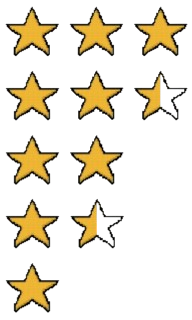
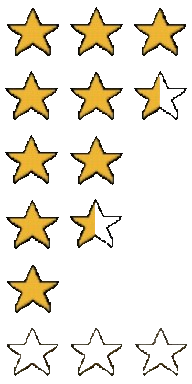
star modal fix

diff --git a/ui/game.go b/ui/game.go
@@ -58,8 +58,6 @@ const (
 
 var levelNames = []string{"Easy", "Medium", "Hard", "Extreme"}
 
-var pointsPerQ = []int{10, 20, 30, 40}
-
 // Game represents the main game state
 type Game struct {
 	gameFont    font.Face
@@ -148,16 +146,15 @@ type Game struct {
 	starShineAngle     float64
 
 	// --- Pending answer system ---
-	pendingAnswer        bool
-	pendingIsBonusQ      bool
-	pendingIsCorrect     bool
-	pendingQuestionsLeft int
-
+	pendingAnswer bool
 	// In Game struct, add:
 	// lastNavClick time.Time
 
 	// In Game struct, add:
 	compassImg *ebiten.Image
+
+	// In Game struct, add:
+	starStripImg *ebiten.Image
 }
 
 // GameState represents the current state of the game UI
@@ -1041,6 +1038,7 @@ func NewGame() *Game {
 	g.initLogo()
 	g.initShips()
 	g.initCompass()
+	g.initStarStrip() // <-- add this
 	return g
 }
 
@@ -1802,24 +1800,42 @@ func (g *Game) drawStarModal(screen *ebiten.Image) {
 	title := "Test Results"
 	drawWrappedTextWithShadow(screen, title, g.confirmFont, x+32, y+48, w-64, 28, VictoryGold)
 
-	starY := y + 110
-	starX := x + 120
-	starGap := 100
-	fullStars := int(g.starCount)
-	halfStar := g.starCount-float64(fullStars) >= 0.5
-	for i := 0; i < 3; i++ {
-		cx := starX + i*starGap
-		if i < fullStars {
-			drawStar(screen, cx, starY, 28, VictoryGold, 1.0)
-		} else if i == fullStars && halfStar {
-			drawStar(screen, cx, starY, 28, VictoryGold, 0.5)
-		} else {
-			drawStar(screen, cx, starY, 28, SmokeWhite, 1.0)
+	// --- Draw star strip ---
+	if g.starStripImg != nil {
+		// Determine frame based on subject percent (not total score)
+		percent := g.scorePercent // This is already per subject
+		frame := 5                // default: empty
+		if percent == 100 {
+			frame = 0
+		} else if percent >= 90 {
+			frame = 1
+		} else if percent >= 80 {
+			frame = 2
+		} else if percent >= 70 {
+			frame = 3
+		} else if percent >= 1 {
+			frame = 4
+		} else if percent == 0 {
+			frame = 5
 		}
+		// Star strip is 6 frames, vertical, all same width/height
+		imgW := g.starStripImg.Bounds().Dx()
+		imgH := g.starStripImg.Bounds().Dy()
+		frameH := imgH / 6
+		starX := x + w/2 - imgW/2
+		starY := y + 80
+		srcRect := image.Rect(0, frame*frameH, imgW, (frame+1)*frameH)
+		frameImg := g.starStripImg.SubImage(srcRect).(*ebiten.Image)
+		starW := 120
+		starH := 120
+		op := &ebiten.DrawImageOptions{}
+		op.GeoM.Scale(float64(starW)/float64(imgW), float64(starH)/float64(frameH))
+		op.GeoM.Translate(float64(starX), float64(starY))
+		screen.DrawImage(frameImg, op)
 	}
 
 	// Score and rank
-	scoreY := starY + 60
+	scoreY := y + 200 // move down to account for new star position
 
 	// Get total score from all subjects
 	totalScore := 0
@@ -1862,61 +1878,6 @@ func (g *Game) drawStarModal(screen *ebiten.Image) {
 	g.continueRects = []image.Rectangle{
 		image.Rect(btnX1, btnY, btnX1+btnW, btnY+btnH),
 		image.Rect(btnX2, btnY, btnX2+btnW, btnY+btnH),
-	}
-}
-
-// drawStar draws a 5-pointed star, optionally half-filled
-func drawStar(screen *ebiten.Image, cx, cy, r int, col color.Color, fillFrac float64) {
-	ensureWhiteImg()
-	c := colorToRGBA(col)
-	points := 5
-	outer := float64(r)
-	inner := outer * 0.5
-	verts := make([]ebiten.Vertex, 0, 10)
-	for i := 0; i < points*2; i++ {
-		angle := math.Pi/2 + float64(i)*math.Pi/float64(points)
-		rad := outer
-		if i%2 == 1 {
-			rad = inner
-		}
-		x := float32(cx) + float32(rad*math.Cos(angle))
-		y := float32(cy) - float32(rad*math.Sin(angle))
-		verts = append(verts, ebiten.Vertex{
-			DstX: x, DstY: y,
-			ColorR: float32(c.R) / 255, ColorG: float32(c.G) / 255, ColorB: float32(c.B) / 255, ColorA: float32(c.A) / 255,
-		})
-	}
-	indices := []uint16{0, 2, 4, 6, 8, 1, 3, 5, 7, 9}
-	if fillFrac < 1.0 {
-		mid := cx
-		for i := 0; i < len(indices)-2; i++ {
-			v1 := verts[indices[i]]
-			v2 := verts[indices[i+1]]
-			v3 := ebiten.Vertex{DstX: float32(cx), DstY: float32(cy), ColorR: v1.ColorR, ColorG: v1.ColorG, ColorB: v1.ColorB, ColorA: v1.ColorA}
-			if v1.DstX <= float32(mid) && v2.DstX <= float32(mid) {
-				vs := []ebiten.Vertex{v1, v2, v3}
-				is := []uint16{0, 1, 2}
-				screen.DrawTriangles(vs, is, whiteImg, nil)
-			} else {
-				vs := []ebiten.Vertex{v1, v2, v3}
-				for j := range vs {
-					vs[j].ColorR = float32(SmokeWhite.R) / 255
-					vs[j].ColorG = float32(SmokeWhite.G) / 255
-					vs[j].ColorB = float32(SmokeWhite.B) / 255
-					vs[j].ColorA = float32(SmokeWhite.A) / 255
-				}
-				is := []uint16{0, 1, 2}
-				screen.DrawTriangles(vs, is, whiteImg, nil)
-			}
-		}
-	} else {
-		for i := 0; i < len(indices)-2; i++ {
-			vs := []ebiten.Vertex{
-				verts[indices[0]], verts[indices[i+1]], verts[indices[i+2]],
-			}
-			is := []uint16{0, 1, 2}
-			screen.DrawTriangles(vs, is, whiteImg, nil)
-		}
 	}
 }
 
@@ -2072,4 +2033,19 @@ func (g *Game) initCompass() {
 		return
 	}
 	g.compassImg = ebiten.NewImageFromImage(img)
+}
+
+func (g *Game) initStarStrip() {
+	starPath := "assets/star.png"
+	data, err := os.ReadFile(starPath)
+	if err != nil {
+		g.starStripImg = nil
+		return
+	}
+	img, err := png.Decode(bytes.NewReader(data))
+	if err != nil {
+		g.starStripImg = nil
+		return
+	}
+	g.starStripImg = ebiten.NewImageFromImage(img)
 }

diff --git a/game/state.go b/game/state.go
@@ -98,17 +98,17 @@ func NewLeaderboardEntry(gs *GameState) LeaderboardEntry {
 
 // CalcRankAndPercent calculates the rank and score percent for the player.
 func CalcRankAndPercent(score, mainQDone int, bonusAnswered bool, enemyHP, playerHP, level int) (rank string, percent int) {
-	// Use correct max score per level
 	mainQuestions := []int{10, 15, 20, 25}
 	basePoints := []int{10, 20, 30, 40}
 	maxScore := mainQuestions[level] * basePoints[level]
-	if bonusAnswered && enemyHP == 0 {
-		unused := mainQuestions[level] - mainQDone
-		maxScore += unused * basePoints[level]
-	}
+	// Remove bonus/unused logic for maxScore
 	percent = 0
 	if maxScore > 0 {
 		percent = (score * 100) / maxScore
+	}
+	// If enemy defeated and all main questions answered, force 100%
+	if enemyHP == 0 && mainQDone == mainQuestions[level] {
+		percent = 100
 	}
 	if playerHP == 0 || percent < 50 {
 		rank = "Defeated"
